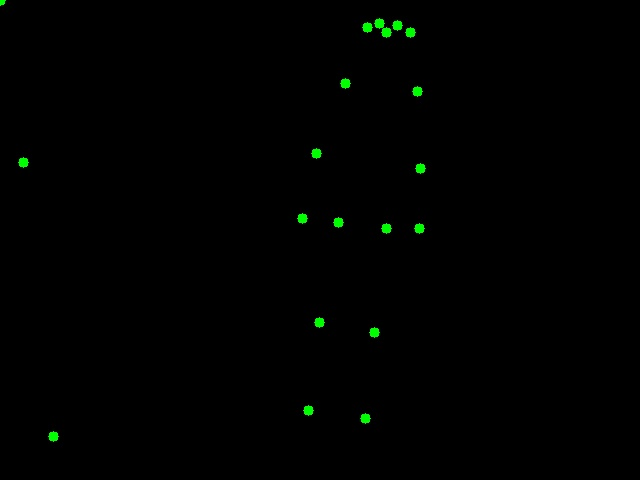
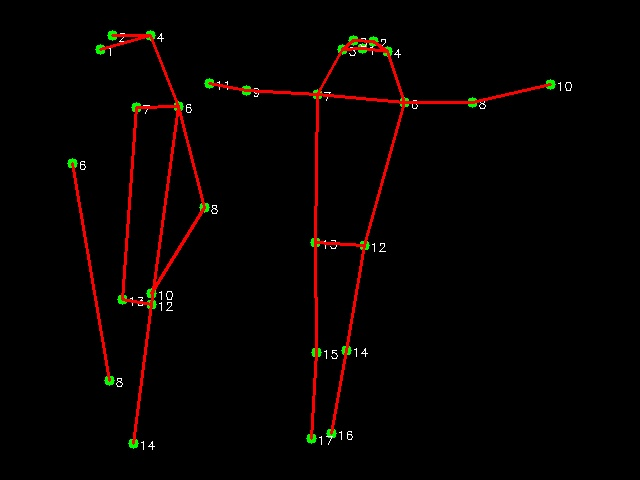
draw img with poses

diff --git a/tutorials/drawimg.py b/tutorials/drawimg.py
@@ -6,7 +6,6 @@ import torch
 
 def read_tensors_from_file(file_path):
     with open(file_path, 'r') as file:
-        # Dies lädt eine Liste von Listen von Koordinaten
         data_lists = json.load(file)
         tensors = [torch.tensor(data, dtype=torch.float32)
                    for data in data_lists]
@@ -14,13 +13,38 @@ def read_tensors_from_file(file_path):
 
 
 def draw_keypoints(tensors, img_size=(640, 480)):
-    # Direkt als NumPy-Array
     image = torch.zeros(
         (img_size[1], img_size[0], 3), dtype=torch.uint8).numpy()
+    font = cv2.FONT_HERSHEY_SIMPLEX
+    font_scale = 0.4
+    color = (255, 255, 255)  # Weiß für die Nummerierung
+    thickness = 1
+    line_color = (0, 0, 255)  # Rot für die Linien
+    line_thickness = 2
+
+    # Verbindungen, die gezeichnet werden sollen (0-basierte Indizes)
+    connections = [(10, 8), (8, 6), (6, 12), (12, 11), (11, 5), (5, 6), (5, 7), (7, 9), (12, 14), (14, 16), (11, 13), (13, 15), (4, 2), (2, 1), (1, 3), (0, 4), (3, 0), (4,6), (3,5)]
+
     for tensor in tensors:
-        for point in tensor:
-            x, y = int(point[0] * img_size[0]), int(point[1] * img_size[1])
-            cv2.circle(image, (x, y), 5, (0, 255, 0), -1)
+        points = [(int(p[0] * img_size[0]), int(p[1] * img_size[1]))
+                  for p in tensor]
+
+        # Zeichne die Punkte
+        for i, (x, y) in enumerate(points):
+            if x > 0 and y > 0:  # Nur sichtbare Punkte zeichnen und nummerieren
+                cv2.circle(image, (x, y), 5, (0, 255, 0), -1)
+                cv2.putText(image, str(i + 1), (x + 6, y + 6),
+                            font, font_scale, color, thickness)
+
+        # Zeichne die Verbindungen zwischen den Punkten
+        for start_idx, end_idx in connections:
+            if start_idx < len(points) and end_idx < len(points):
+                start_point = points[start_idx]
+                end_point = points[end_idx]
+                if start_point[0] > 0 and start_point[1] > 0 and end_point[0] > 0 and end_point[1] > 0:
+                    cv2.line(image, start_point, end_point,
+                             line_color, line_thickness)
+
     return image
 
 
